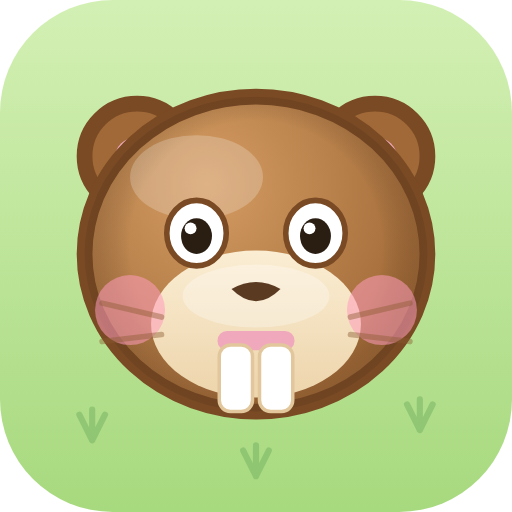
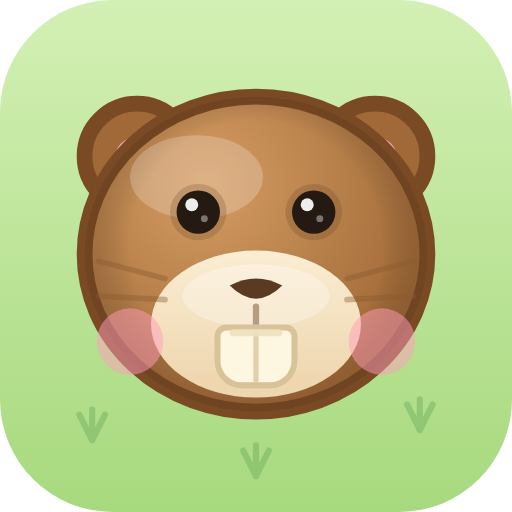
Beaver Chase: beady eyes and a reworked incisor pair
- Eyes are now small, dark and glossy — beady little animal eyes rather
  than big cartoon ones. They sit in a soft socket, carry two catchlights,
  still glance toward the direction of travel, and still blink.
- Teeth reworked from two floating white rectangles into a single warm
  ivory incisor block with a centre seam, a soft gumline highlight and a
  rounded lower edge — reads as a beaver, not as dental work.
- Blush moved down onto the cheeks and whiskers raised above it so they no
  longer slice through the blush.
- Icons regenerated to match.

Claude-Session: https://claude.ai/code/session_014mrTRHqCUXy1hSyhseQPs2

diff --git a/snake/game.js b/snake/game.js
@@ -490,14 +490,15 @@
 <ellipse cx="-17" cy="-24" rx="19" ry="12" fill="#fff" opacity="0.22"/>
 <ellipse cx="0" cy="18" rx="30" ry="21" fill="url(#mz)"/>
 <ellipse cx="0" cy="10" rx="21" ry="9" fill="#fff" opacity="0.3"/>
-<circle cx="-36" cy="14" r="10" fill="#ff9dbb" opacity="0.55"/><circle cx="36" cy="14" r="10" fill="#ff9dbb" opacity="0.55"/>
-<path d="M-7 8 Q0 15 7 8 Q0 4 -7 8 Z" fill="#5b3a22"/>
-<rect x="-11" y="20" width="22" height="5.5" rx="2.7" fill="#f0a8bd"/>
-<rect x="-10.5" y="24" width="9.5" height="19" rx="3.2" fill="#fff" stroke="#e2c69c" stroke-width="1"/>
-<rect x="1" y="24" width="9.5" height="19" rx="3.2" fill="#fff" stroke="#e2c69c" stroke-width="1"/>
-<g stroke="#8a5a2f" stroke-width="1.6" opacity="0.42" stroke-linecap="round">
- <line x1="-27" y1="16" x2="-44" y2="12"/><line x1="-27" y1="21" x2="-44" y2="23"/>
- <line x1="27" y1="16" x2="44" y2="12"/><line x1="27" y1="21" x2="44" y2="23"/>
+<circle cx="-36" cy="23" r="9.5" fill="#ff9dbb" opacity="0.5"/><circle cx="36" cy="23" r="9.5" fill="#ff9dbb" opacity="0.5"/>
+<path d="M-7.5 7 Q0 14.5 7.5 7 Q0 3 -7.5 7 Z" fill="#5b3a22"/>
+<path d="M0 13 v5" stroke="#8a6a4a" stroke-width="1.8" stroke-linecap="round" opacity="0.6"/>
+<path d="M-8.5 19 h17 a2.5 2.5 0 0 1 2.5 2.5 v7 a7 7 0 0 1 -7 7 h-8 a7 7 0 0 1 -7 -7 v-7 a2.5 2.5 0 0 1 2.5 -2.5 z" fill="#fdf6e0" stroke="#d8c298" stroke-width="1.7" stroke-linejoin="round"/>
+<path d="M0 20.5 v13.5" stroke="#e2d0aa" stroke-width="1.5" stroke-linecap="round"/>
+<path d="M-6.5 20.5 h13" stroke="#efe2c2" stroke-width="2" stroke-linecap="round" opacity="0.9"/>
+<g stroke="#8a5a2f" stroke-width="1.6" opacity="0.4" stroke-linecap="round">
+ <line x1="-26" y1="5" x2="-45" y2="0"/><line x1="-26" y1="11" x2="-45" y2="10"/>
+ <line x1="26" y1="5" x2="45" y2="0"/><line x1="26" y1="11" x2="45" y2="10"/>
 </g></svg>`),
 
     log: svgSprite(`<svg xmlns="http://www.w3.org/2000/svg" viewBox="-50 -50 100 100" width="128" height="128">
@@ -600,25 +601,29 @@
     const size = r * 2.95;                          // big head = cute proportions
     if (SPR.beaver.ready) stamp(SPR.beaver, size); else blob("#a9713f", r * 2);
 
-    // eyes drawn on top so they can glance & blink
+    // Beady little animal eyes — small, dark and glossy rather than big and
+    // cartoony. Drawn on top of the sprite so they can glance and blink.
     const k = size / 120;                            // sprite units -> px
-    const ex = 17 * k, ey = -8 * k, er = 8.5 * k;
+    const ex = 16.5 * k, ey = -14 * k, er = 6.2 * k;
     const blink = ((G.time * 0.9 + 0.3) % 4.2) < 0.13;
     for (const sgn of [-1, 1]) {
       const bx = sgn * ex;
       if (blink) {
-        ctx.strokeStyle = "#3a2416"; ctx.lineWidth = Math.max(1.4, 2.6 * k); ctx.lineCap = "round";
-        ctx.beginPath(); ctx.arc(bx, ey, er * 0.7, 0.25 * Math.PI, 0.75 * Math.PI); ctx.stroke();
+        ctx.strokeStyle = "#2a1d12"; ctx.lineWidth = Math.max(1.4, 2.4 * k); ctx.lineCap = "round";
+        ctx.beginPath(); ctx.arc(bx, ey, er * 0.85, 0.22 * Math.PI, 0.78 * Math.PI); ctx.stroke();
       } else {
-        ctx.fillStyle = "#fff";
-        ctx.beginPath(); ctx.ellipse(bx, ey, er, er * 1.1, 0, 0, 7); ctx.fill();
-        ctx.strokeStyle = "#7a4a24"; ctx.lineWidth = Math.max(1, 1.6 * k); ctx.stroke();
-        // pupil looks where the beaver is heading
-        const pxo = dx * er * 0.34, pyo = dy * er * 0.34;
-        ctx.fillStyle = "#2a1d12";
-        ctx.beginPath(); ctx.ellipse(bx + pxo, ey + pyo, er * 0.52, er * 0.6, 0, 0, 7); ctx.fill();
-        ctx.fillStyle = "#fff";
-        ctx.beginPath(); ctx.arc(bx + pxo - er * 0.2, ey + pyo - er * 0.24, er * 0.2, 0, 7); ctx.fill();
+        // soft socket so the bead sits in the fur
+        ctx.fillStyle = "rgba(90,58,30,0.22)";
+        ctx.beginPath(); ctx.arc(bx, ey, er * 1.3, 0, 7); ctx.fill();
+        // the bead itself, nudged toward where the beaver is heading
+        const pxo = dx * er * 0.2, pyo = dy * er * 0.2;
+        ctx.fillStyle = "#241a12";
+        ctx.beginPath(); ctx.arc(bx + pxo, ey + pyo, er, 0, 7); ctx.fill();
+        // glossy catchlights
+        ctx.fillStyle = "rgba(255,255,255,0.92)";
+        ctx.beginPath(); ctx.arc(bx + pxo - er * 0.3, ey + pyo - er * 0.34, er * 0.3, 0, 7); ctx.fill();
+        ctx.fillStyle = "rgba(255,255,255,0.4)";
+        ctx.beginPath(); ctx.arc(bx + pxo + er * 0.28, ey + pyo + er * 0.3, er * 0.16, 0, 7); ctx.fill();
       }
     }
     ctx.restore();
